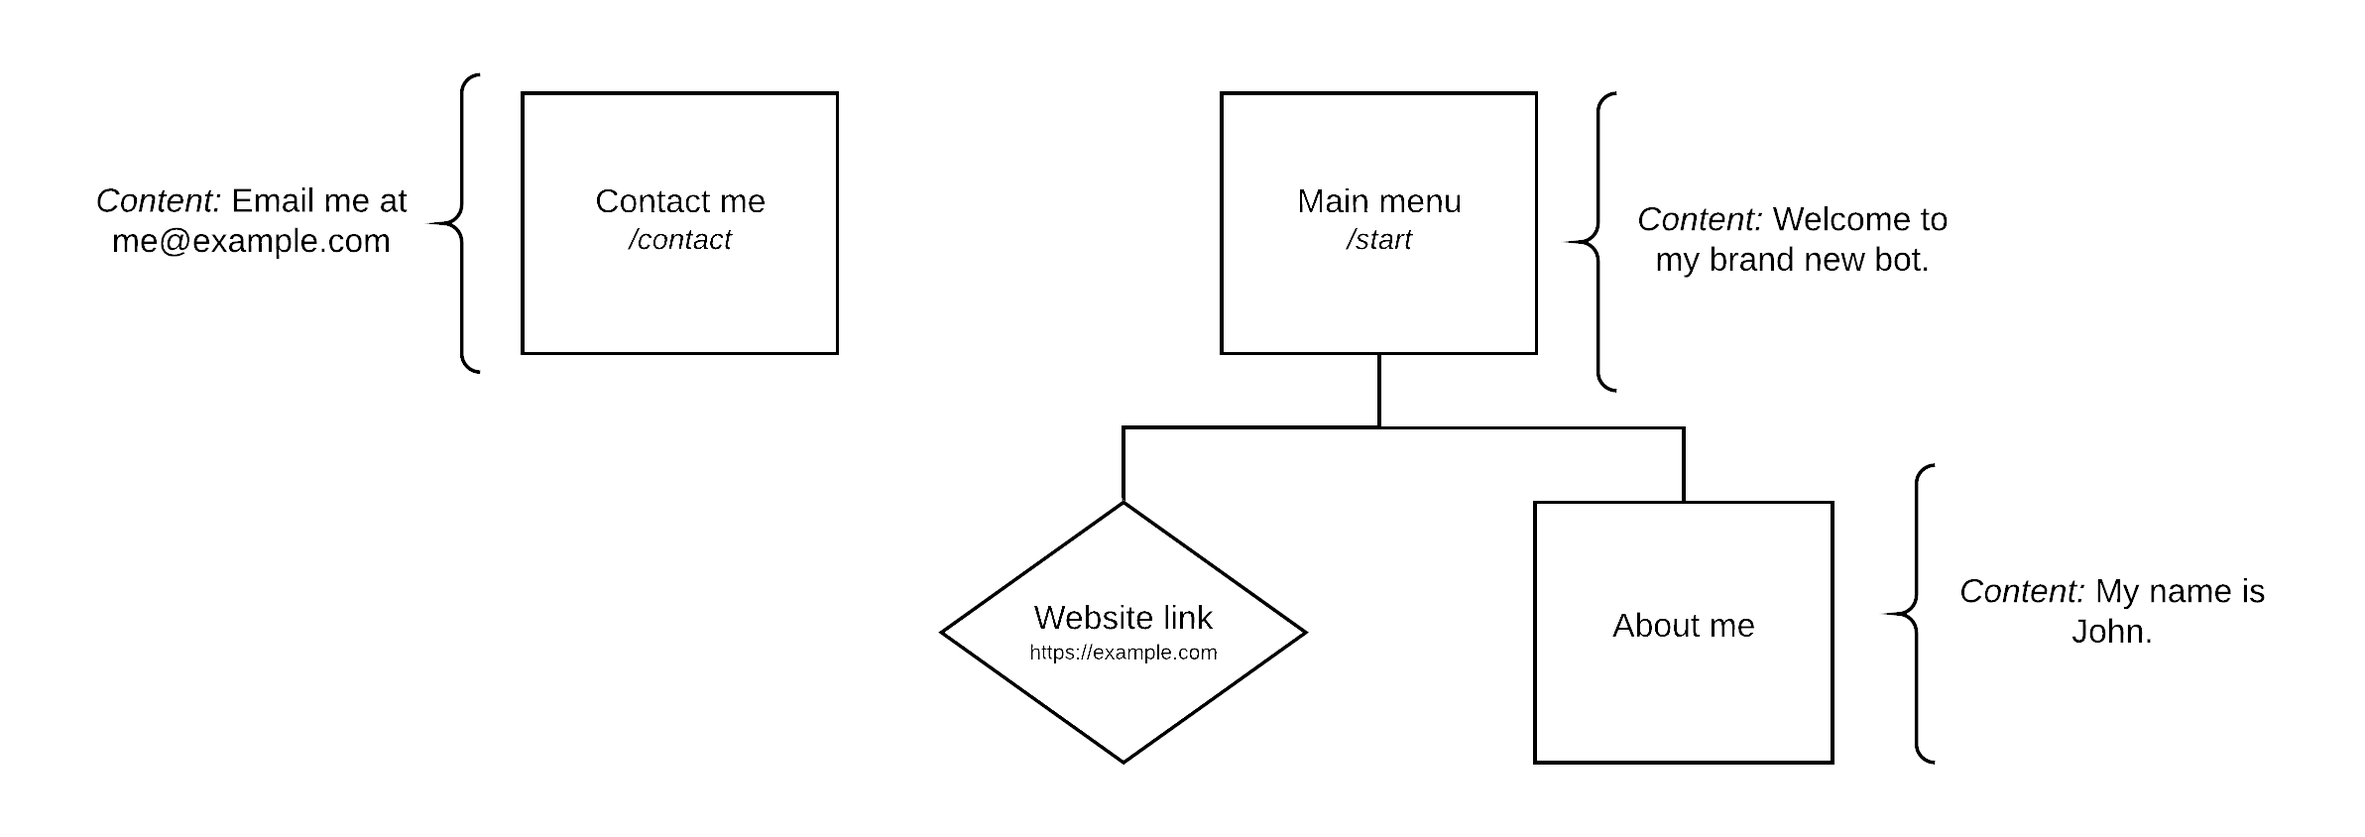
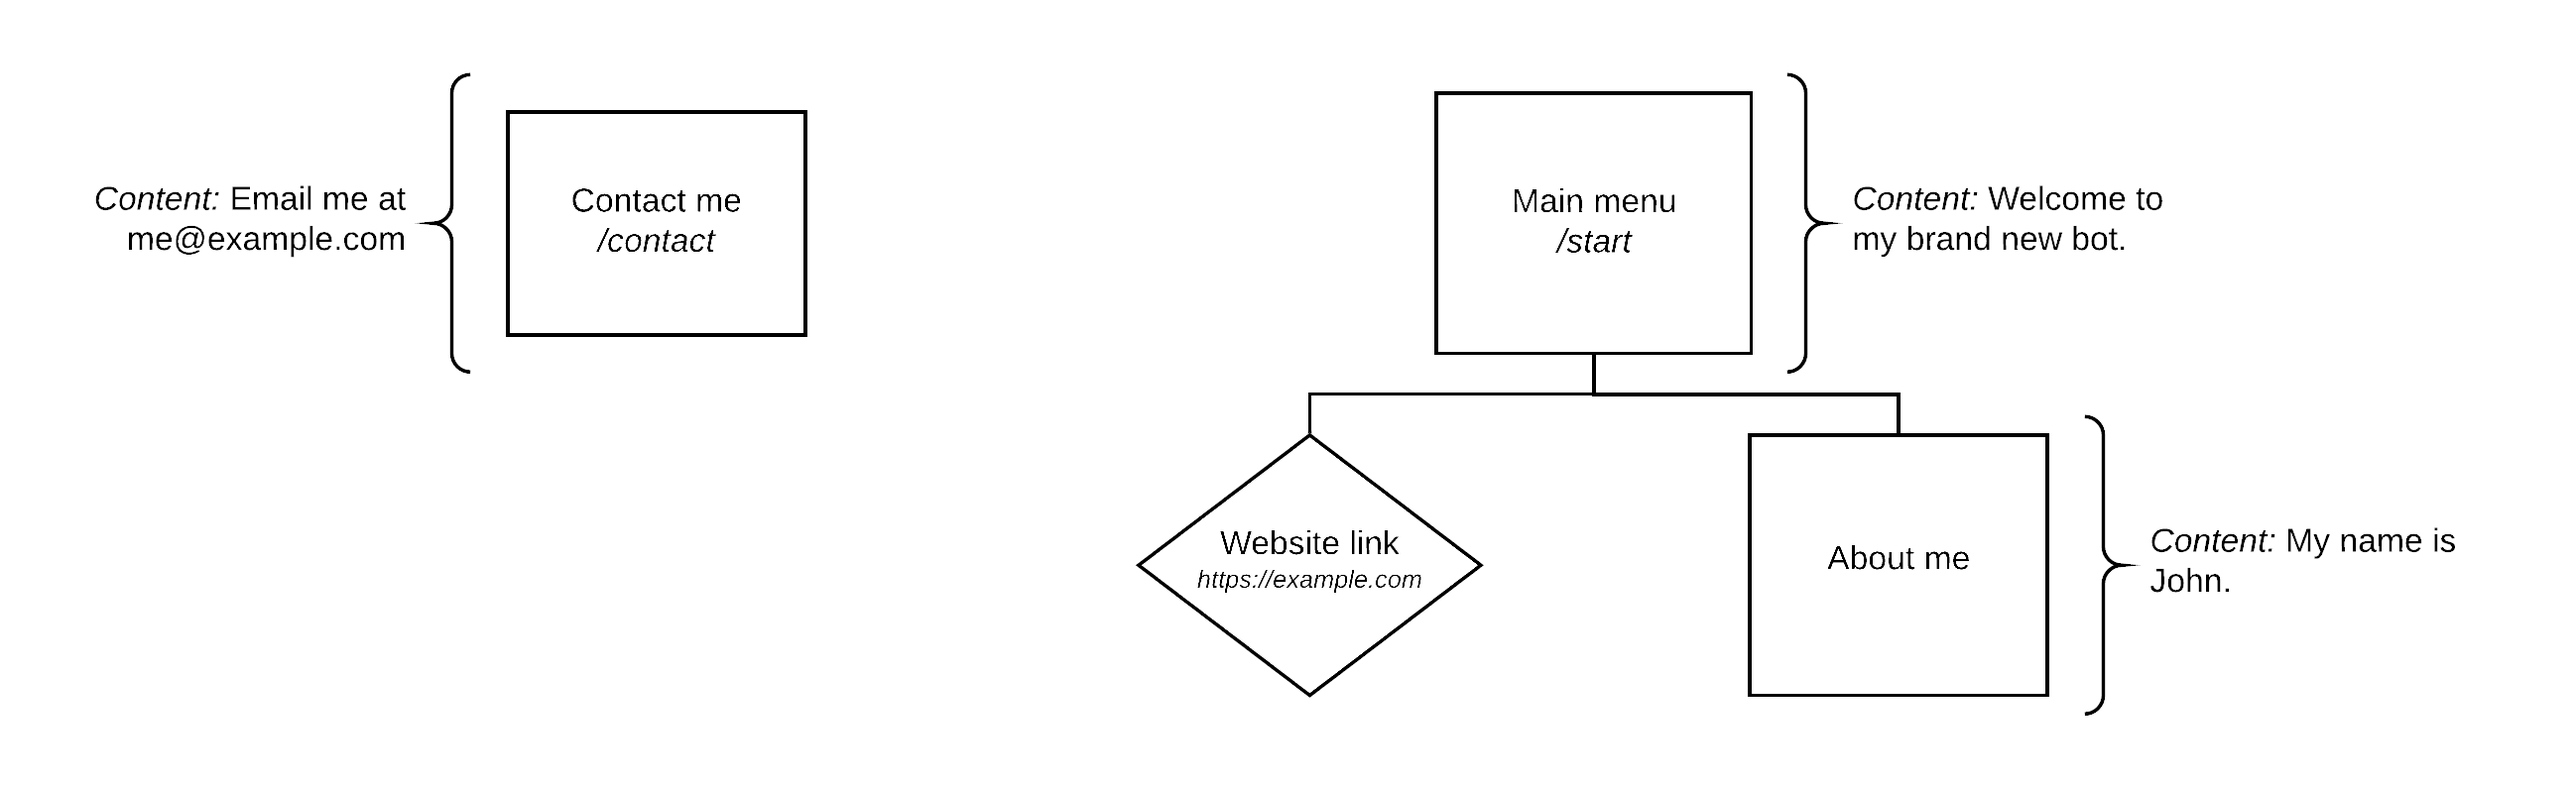
fix(docs): make all the flowcharts follow the guidelines

diff --git a/docs/source/quickstart/overview.rst b/docs/source/quickstart/overview.rst
@@ -27,7 +27,7 @@ This can be effortlessly converted to a Pyrubrum tree:
 
     {
         Menu("Main menu", "start", "Welcome to my brand new bot."): [
-            LinkMenu("Website link", "https://example.com"),
+            LinkMenu("Website link", "website_link", "https://example.com"),
             Menu("About me", "about_me",
                  "My name is John."),
         ]
@@ -57,7 +57,7 @@ Which translates to:
 
     {
         Menu("Main menu", "start", "Welcome to my brand new bot."): [
-            LinkMenu("Website link", "https://example.com"),
+            LinkMenu("Website link", "website_link", "https://example.com"),
             Menu("About me", "about_me",
                  "My name is John."),
         ],
@@ -82,7 +82,7 @@ That's what we will write:
 
     forest = transform({
         Menu("Main menu", "start", "Welcome to my brand new bot."): [
-            LinkMenu("Website link", "https://example.com"),
+            LinkMenu("Website link", "website_link", "https://example.com"),
             Menu("About me", "about_me",
                  "My name is John."),
         ],
@@ -119,7 +119,7 @@ Our example is then going to look like this:
 
     handler = Handler(transform({
         Menu("Main menu", "start", "Welcome to my brand new bot."): [
-            LinkMenu("Website link", "https://example.com"),
+            LinkMenu("Website link", "website_link", "https://example.com"),
             Menu("About me", "about_me",
                  "My name is John."),
         ],
@@ -131,19 +131,23 @@ And now we're done with the programming part related to Pyrubrum.
 Creating a bot
 --------------
 
-In order to access Telegram APIs, we need to have an authorization token, which you can retrieve by talking to `BotFather <https://core.telegram.org/bots#6-botfather>`_.
-As soon as you get your authorization token, we can start by importing the `Pyrogram <https://docs.pyrogram.org>`_ library and creating a `pyrogram.Client` instance using our brand new token:
+In order to access Telegram APIs, we need to have an authorization token that links to the bot you want to make use of, which you can retrieve by talking to `BotFather <https://core.telegram.org/bots#6-botfather>`_. You will also need to create your own API credentials (see https://my.telegram.org/apps).
+As soon as you get your credentials, we can start by importing the `Pyrogram <https://docs.pyrogram.org>`_ library and creating a `pyrogram.Client` instance:
 
 .. code-block:: python
 
     from pyrogram import Client
-    from pyrubrum import LinkMenu, Menu, transform
+    from pyrubrum import Handler, LinkMenu, Menu, transform
 
-    bot = Client("ExampleBot", bot_token="<YOUR_BOT_TOKEN_GOES_HERE>")
+    bot = Client("ExampleBot",
+                 api_hash="<YOUR_API_HASH_GOES_HERE>",
+                 api_id="<YOUR_API_ID_GOES_HERE>",
+                 bot_token="<YOUR_BOT_TOKEN_GOES_HERE>"
+    )
 
     handler = Handler(transform({
         Menu("Main menu", "start", "Welcome to my brand new bot."): [
-            LinkMenu("Website link", "https://example.com"),
+            LinkMenu("Website link", "website_link", "https://example.com"),
             Menu("About me", "about_me",
                  "My name is John."),
         ],
@@ -161,13 +165,17 @@ It is then built in this way:
 .. code-block:: python
 
     from pyrogram import Client
-    from pyrubrum import LinkMenu, Menu, transform
+    from pyrubrum import Handler, LinkMenu, Menu, transform
 
-    bot = Client("ExampleBot", bot_token="<YOUR_API_KEY_GOT_HERE>")
+    bot = Client("ExampleBot",
+                 api_hash="<YOUR_API_HASH_GOES_HERE>",
+                 api_id="<YOUR_API_ID_GOES_HERE>",
+                 bot_token="<YOUR_BOT_TOKEN_GOES_HERE>"
+    )
 
     handler = Handler(transform({
         Menu("Main menu", "start", "Welcome to my brand new bot."): [
-            LinkMenu("Website link", "https://example.com"),
+            LinkMenu("Website link", "website_link", "https://example.com"),
             Menu("About me", "about_me",
                  "My name is John."),
         ],

diff --git a/CHANGELOG.md b/CHANGELOG.md
@@ -14,12 +14,13 @@
    - Add docstrings to `command_filter` and `deep_link_filter` ([b61629afa1d85f80fea4ec5030ab756d47714fea](https://github.com/hearot/pyrubrum/commit/b61629afa1d85f80fea4ec5030ab756d47714fea))
    - Add flowcharts ([c170d6aa8630e2f0575e79e0b10dcb5bab84a119](https://github.com/hearot/pyrubrum/commit/c170d6aa8630e2f0575e79e0b10dcb5bab84a119))
    - Finish writing the tutorial ([3ed75930ab0a57d84dad25880bdde86e1e7d66f4](https://github.com/hearot/pyrubrum/commit/3ed75930ab0a57d84dad25880bdde86e1e7d66f4))
-   - Flowcharts are now transparent
+   - Flowcharts are now transparent ([0c32a87eb5610b4b4304ab43eea4b706da69f224](https://github.com/hearot/pyrubrum/commit/0c32a87eb5610b4b4304ab43eea4b706da69f224))
    - Include examples in the toctree ([737c1223e9ef4c95d9cac78c43e8820f7210069f](https://github.com/hearot/pyrubrum/commit/737c1223e9ef4c95d9cac78c43e8820f7210069f))
    - Update docstrings for `pass_parameterized_handler` ([aa5a7a7b884db15a0c1c83b6d43bbf078fa58d4d](https://github.com/hearot/pyrubrum/commit/aa5a7a7b884db15a0c1c83b6d43bbf078fa58d4d))
 
 ### Fixes
 
+   - Make all the flowcharts follow the guidelines
    - Preserve order while adding a new child to a node ([8a0980c41c18b67d98830d00db10b77c59a85c07](https://github.com/hearot/pyrubrum/commit/8a0980c41c18b67d98830d00db10b77c59a85c07))
 
 ### New features

diff --git a/FEATURES.md b/FEATURES.md
@@ -10,12 +10,13 @@
    - Add docstrings to `command_filter` and `deep_link_filter` ([b61629afa1d85f80fea4ec5030ab756d47714fea](https://github.com/hearot/pyrubrum/commit/b61629afa1d85f80fea4ec5030ab756d47714fea))
    - Add flowcharts ([c170d6aa8630e2f0575e79e0b10dcb5bab84a119](https://github.com/hearot/pyrubrum/commit/c170d6aa8630e2f0575e79e0b10dcb5bab84a119))
    - Finish writing the tutorial ([3ed75930ab0a57d84dad25880bdde86e1e7d66f4](https://github.com/hearot/pyrubrum/commit/3ed75930ab0a57d84dad25880bdde86e1e7d66f4))
-   - Flowcharts are now transparent
+   - Flowcharts are now transparent ([0c32a87eb5610b4b4304ab43eea4b706da69f224](https://github.com/hearot/pyrubrum/commit/0c32a87eb5610b4b4304ab43eea4b706da69f224))
    - Include examples in the toctree ([737c1223e9ef4c95d9cac78c43e8820f7210069f](https://github.com/hearot/pyrubrum/commit/737c1223e9ef4c95d9cac78c43e8820f7210069f))
    - Update docstrings for `pass_parameterized_handler` ([aa5a7a7b884db15a0c1c83b6d43bbf078fa58d4d](https://github.com/hearot/pyrubrum/commit/aa5a7a7b884db15a0c1c83b6d43bbf078fa58d4d))
 
 ### Fixes
 
+   - Make all the flowcharts follow the guidelines
    - Preserve order while adding a new child to a node ([8a0980c41c18b67d98830d00db10b77c59a85c07](https://github.com/hearot/pyrubrum/commit/8a0980c41c18b67d98830d00db10b77c59a85c07))
 
 ### New features
